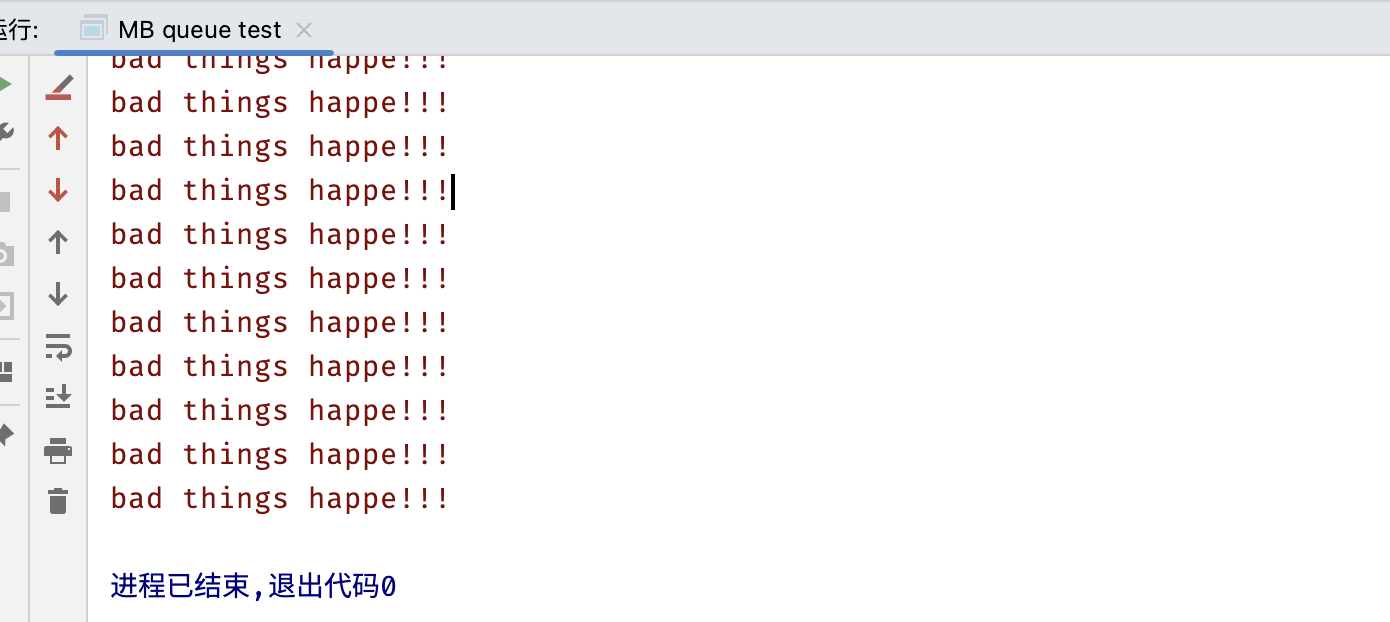
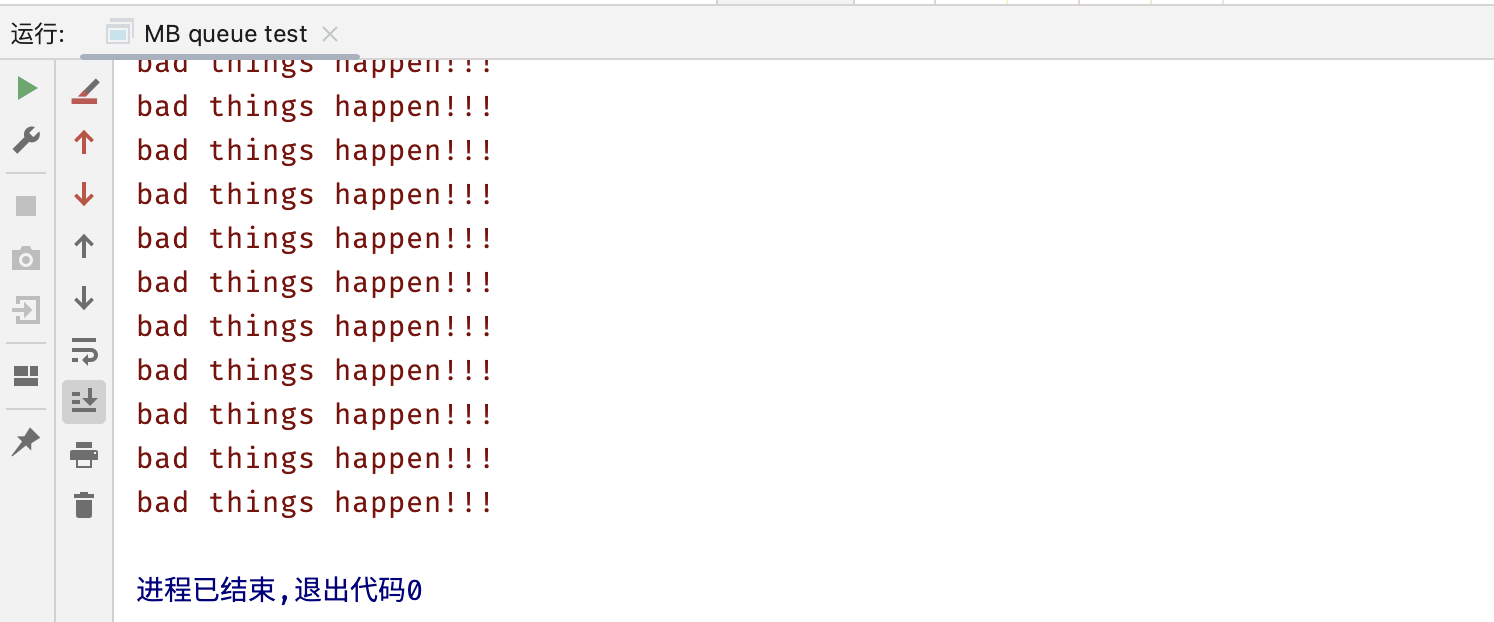
typo

Changed region(s): [[0.0, 0.0, 1.0, 0.8553], [0.0619, 0.9164, 0.3094, 0.9775]]

diff --git a/content/post/2022-11-02-MBQueue.md b/content/post/2022-11-02-MBQueue.md
@@ -22,7 +22,7 @@ Michael&Scott [^1] 给出了了一个无锁队列的实现。在我实际用 Jav
 ...
 if (next.getReference() == null) {
     if(next.getReference() != null){
-        System.err.println("bad things happe!!!");
+        System.err.println("bad things happen!!!");
     }
 
     if (next.compareAndSet(null,
